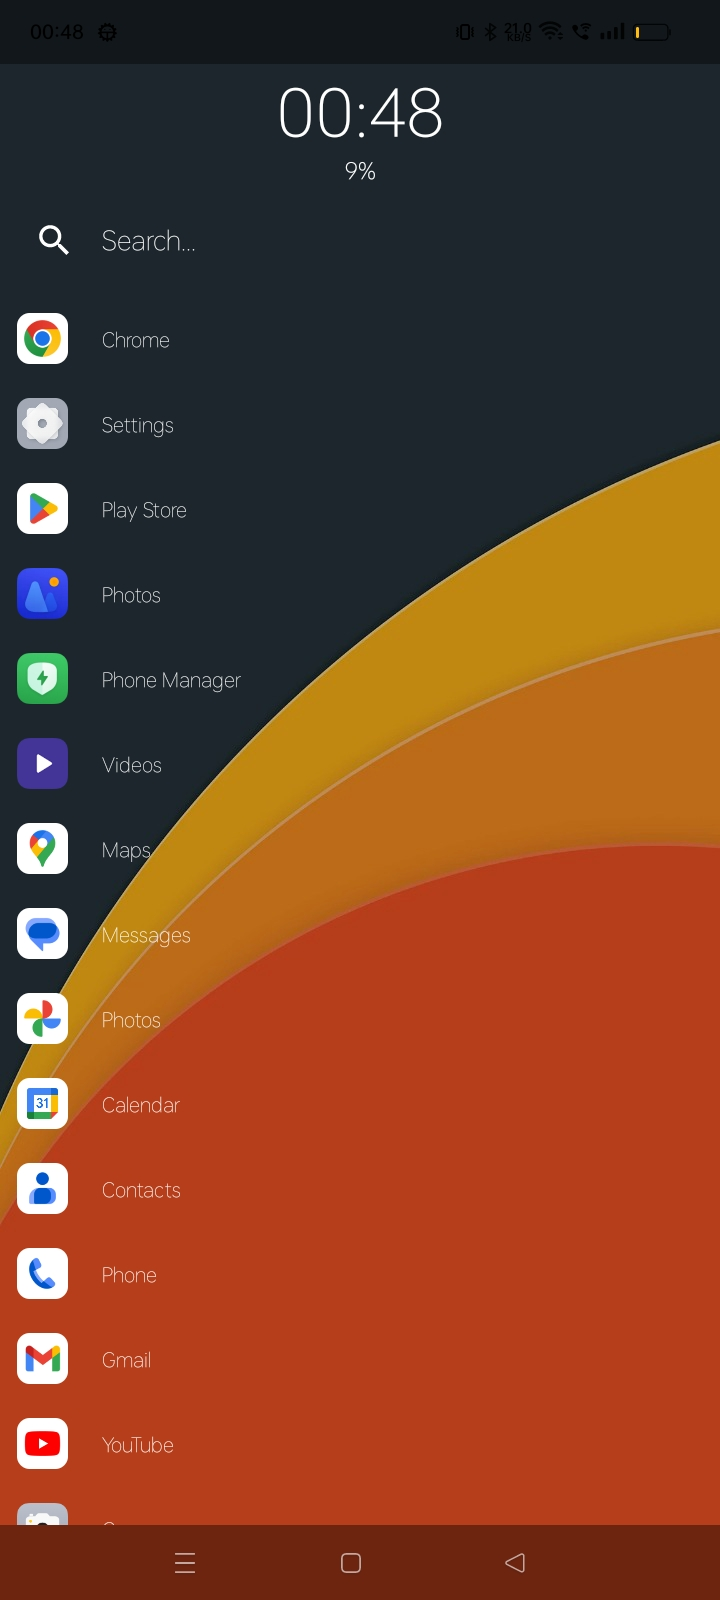
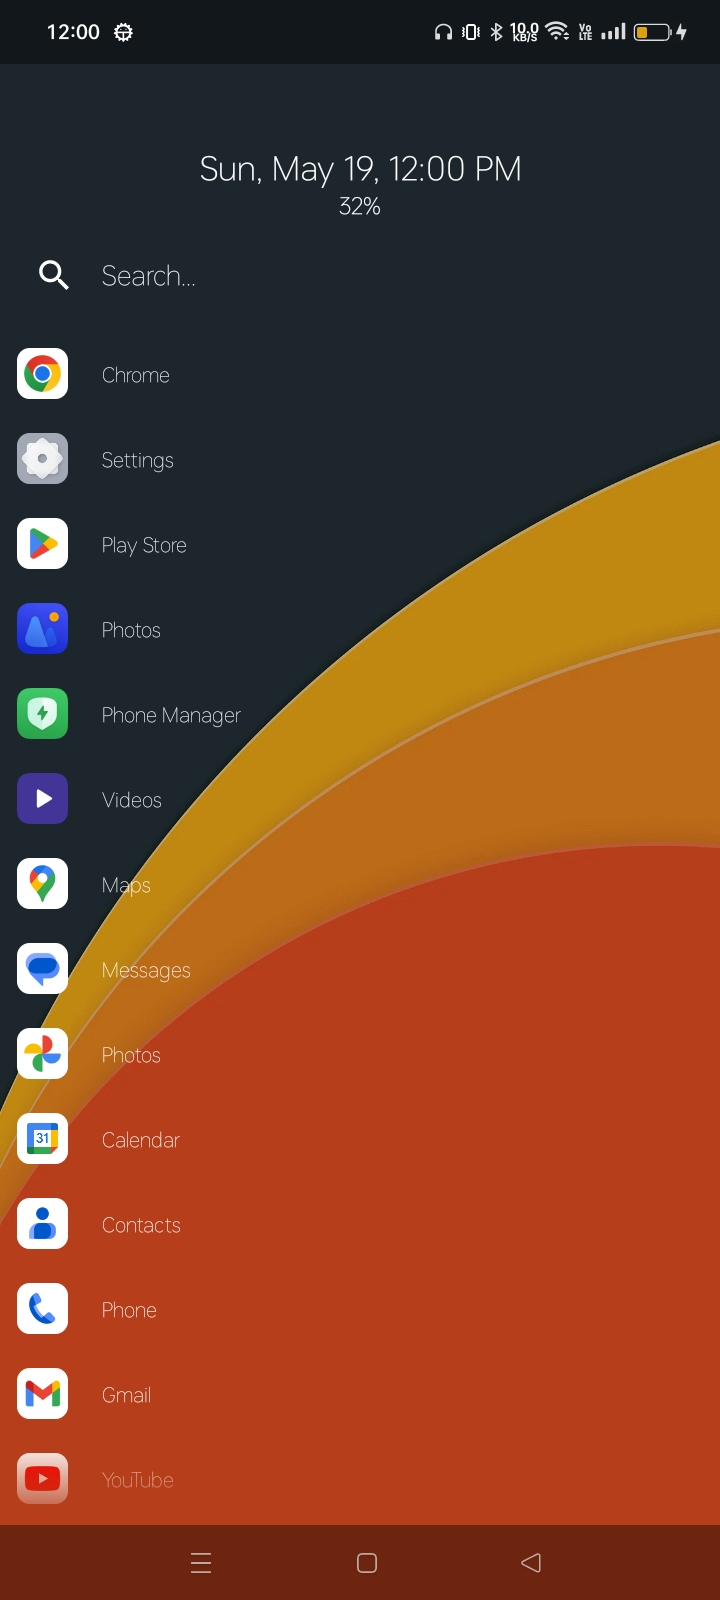
Change UI

diff --git a/app/src/main/java/dev/pankaj/launchernow/StartLauncher.kt b/app/src/main/java/dev/pankaj/launchernow/StartLauncher.kt
@@ -41,6 +41,7 @@ import java.text.SimpleDateFormat
 import java.util.Date
 import java.util.Locale
 import android.provider.Settings
+import androidx.core.view.marginTop
 import kotlinx.coroutines.CoroutineScope
 import kotlinx.coroutines.launch
 
@@ -48,11 +49,12 @@ import kotlinx.coroutines.launch
 class StartLauncher : ComponentActivity() {
 
     private lateinit var timeBatteryTextView: TextView
-    private var handler: Handler?=null
+    private var handler = Handler(Looper.getMainLooper())
 
     private var popupWindow : PopupWindow?=null
     private var apps: List<AppInfo> = mutableListOf()
     private var adapter : AppAdapter?=null
+    private var searchEditText :EditText ?= null
 
     override fun onCreate(savedInstanceState: Bundle?) {
         super.onCreate(savedInstanceState)
@@ -79,9 +81,16 @@ class StartLauncher : ComponentActivity() {
             maxHeight = maxWidthHeight
             setTextColor(Color.WHITE)
             setTypeface(typeface, Typeface.BOLD)
+            val params = LinearLayout.LayoutParams(
+                LinearLayout.LayoutParams.MATCH_PARENT,
+                LinearLayout.LayoutParams.WRAP_CONTENT
+            )
+            params.setMargins(0, 80, 0, 0)
+            layoutParams = params
         }
         layout.addView(timeBatteryTextView)
         adapter = AppAdapter({ packageName ->
+            searchEditText?.setText("")
             val launchIntent = packageManager.getLaunchIntentForPackage(packageName)
             if (launchIntent != null) {
                 startActivity(launchIntent)
@@ -93,7 +102,7 @@ class StartLauncher : ComponentActivity() {
         val searchIcon = ContextCompat.getDrawable(this, R.drawable.ic_search_24)
         searchIcon?.setBounds(0, 0, searchIcon.intrinsicWidth, searchIcon.intrinsicHeight)
 
-        val searchEditText = EditText(this).apply {
+        searchEditText = EditText(this).apply {
             layoutParams = LinearLayout.LayoutParams(
                 LinearLayout.LayoutParams.MATCH_PARENT,
                 LinearLayout.LayoutParams.WRAP_CONTENT
@@ -126,7 +135,9 @@ class StartLauncher : ComponentActivity() {
                 }
             })
         }
-        layout.addView(searchEditText)
+        searchEditText?.let {
+            layout.addView(it)
+        }
 
         val recyclerView = RecyclerView(this).apply {
             isHorizontalFadingEdgeEnabled = true
@@ -136,7 +147,6 @@ class StartLauncher : ComponentActivity() {
         recyclerView.layoutManager = LinearLayoutManager(this)
         layout.addView(recyclerView)
         recyclerView.adapter = adapter
-        handler = Handler(Looper.getMainLooper())
         startUpdatingTimeAndBattery()
         val batteryIntentFilter = IntentFilter(Intent.ACTION_BATTERY_CHANGED)
         registerReceiver(batteryReceiver, batteryIntentFilter)
@@ -149,7 +159,7 @@ class StartLauncher : ComponentActivity() {
         }
         CoroutineScope(Dispatchers.IO).launch {
             apps =  loadApps(packageManager)
-            handler?.post {
+            handler.post {
                 adapter?.updateData(apps)
             }
         }
@@ -157,22 +167,29 @@ class StartLauncher : ComponentActivity() {
 
 
     private fun startUpdatingTimeAndBattery() {
-        handler?.post(object : Runnable {
+        handler.post(object : Runnable {
             override fun run() {
                 updateTimeAndBattery()
-                handler?.postDelayed(this, 1000)
+                handler.postDelayed(this, 1000)
             }
         })
     }
 
     private fun updateTimeAndBattery() {
-        val currentTime = SimpleDateFormat("HH:mm", Locale.getDefault()).format(Date())
+        val currentDate = Date()
+        val dateFormat = SimpleDateFormat("EEE, MMM d", Locale.getDefault())
+        val formattedDate = dateFormat.format(currentDate)
+
+        val timeFormat = SimpleDateFormat("hh:mm a", Locale.getDefault())
+        val formattedTime = timeFormat.format(currentDate)
+        val formattedDateTime = "$formattedDate, ${formattedTime.uppercase()}"
+
         val batteryPercentage = getBatteryPercentage()
-        val timeSpannable = SpannableString(currentTime)
+        val timeSpannable = SpannableString(formattedDateTime)
         val batterySpannable = SpannableString("$batteryPercentage%")
         val timeSize = resources.getDimensionPixelSize(R.dimen.time_text_size)
         val batterySize = resources.getDimensionPixelSize(R.dimen.battery_text_size)
-        timeSpannable.setSpan(AbsoluteSizeSpan(timeSize), 0, currentTime.length, Spannable.SPAN_EXCLUSIVE_EXCLUSIVE)
+        timeSpannable.setSpan(AbsoluteSizeSpan(timeSize), 0, formattedDateTime.length, Spannable.SPAN_EXCLUSIVE_EXCLUSIVE)
         batterySpannable.setSpan(AbsoluteSizeSpan(batterySize), 0, batterySpannable.length, Spannable.SPAN_EXCLUSIVE_EXCLUSIVE)
         val timeBatteryText = TextUtils.concat(timeSpannable, "\n", batterySpannable)
         timeBatteryTextView.text = timeBatteryText
